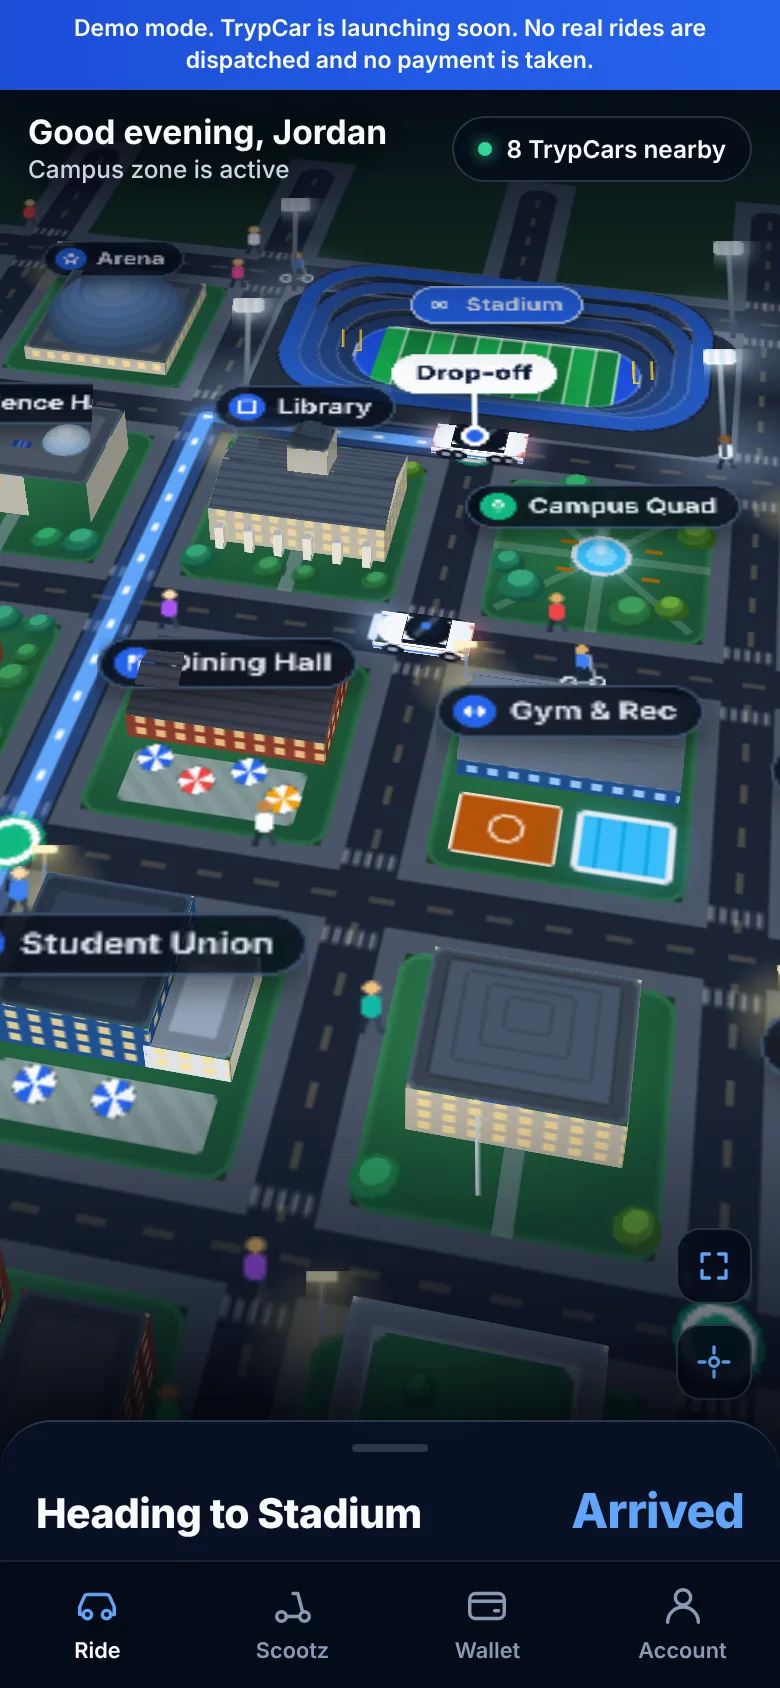
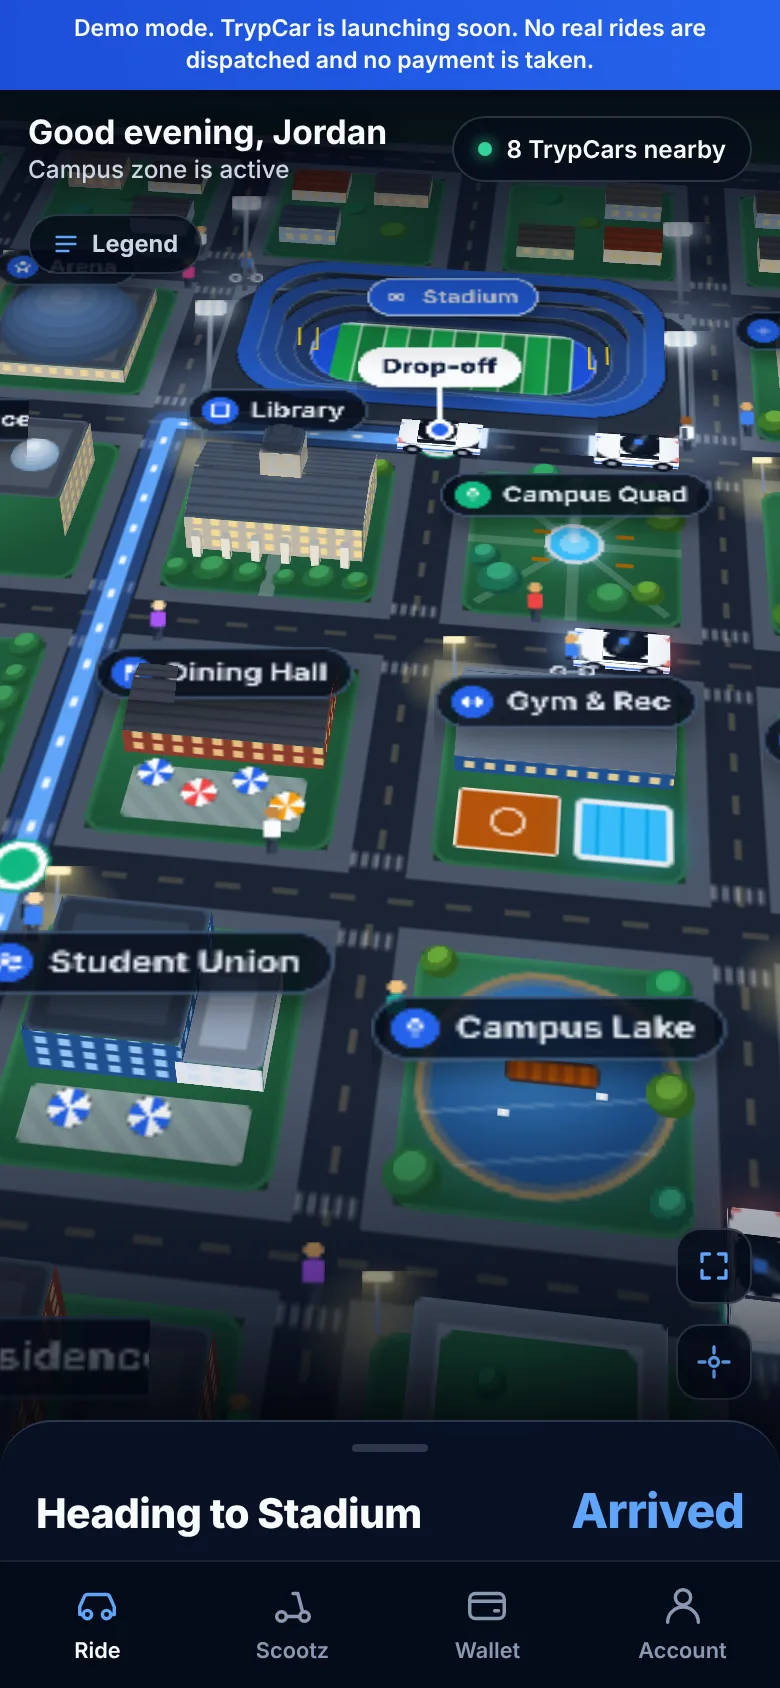
Add files via upload

diff --git a/app.html b/app.html
@@ -124,6 +124,16 @@
     .flag i { position: absolute; left: 0; bottom: 0; width: 1.3px; height: 30px; background: #cbd5e1; }
     .flag b { position: absolute; left: 1.3px; top: 0; width: 11px; height: 7px; background: linear-gradient(#1d4ed8 0 50%, #f8fafc 50%); transform-origin: left center; animation: wave 1.4s ease-in-out infinite alternate; }
     @keyframes wave { to { transform: skewY(6deg) scaleX(0.9); } }
+    .steps { position: absolute; border-radius: 1px; background: repeating-linear-gradient(180deg, #e5e1d6 0 2px, #c9c3b4 2px 3px); transform: translateZ(1px); }
+    .crossx { width: 7px; height: 10px; background: linear-gradient(#fbbf24, #fbbf24) center/1.6px 100% no-repeat, linear-gradient(#fbbf24, #fbbf24) center 30%/100% 1.6px no-repeat; filter: drop-shadow(0 0 3px rgba(251,191,36,0.9)); }
+    .diamond { position: absolute; width: 48px; height: 48px; background: radial-gradient(circle at 100% 100%, #b45309 0 30%, transparent 31%), #2f8f57; border-radius: 0 0 6px 48px; box-shadow: inset 0 0 0 1.5px rgba(255,255,255,0.6); }
+    .lotpave { position: absolute; border-radius: 3px; background: #2b3242; box-shadow: inset 0 0 0 1px rgba(255,255,255,0.12); }
+    .shopsign { display: flex; flex-direction: column; align-items: center; padding: 2px 5px; border-radius: 3px; background: #b91c1c; border: 1px solid #fecaca; box-shadow: 0 0 10px rgba(239,68,68,0.6); }
+    .shopsign b { font-size: 7px; font-weight: 800; color: #fff; letter-spacing: 0.06em; line-height: 1.1; }
+    .shopsign i { font-style: normal; font-size: 6px; font-weight: 700; color: #fde68a; line-height: 1.1; }
+    .shopsign.gas { background: #0f172a; border-color: #ef4444; }
+    .lbl.partner svg { background: #f59e0b; }
+    .lbl.partner { border-color: rgba(251,191,36,0.6); }
     .bld.sel .rf { background: #2563eb !important; }
     .bld.sel .lawn { box-shadow: inset 0 0 0 2px #93c5fd, 0 0 20px rgba(59,130,246,0.6); }
     .bld.sel .top { background: linear-gradient(135deg, #3b82f6, #1d4ed8); box-shadow: 0 0 0 2px #93c5fd, 0 0 28px rgba(59,130,246,0.9); }
@@ -359,7 +369,7 @@
         <div class="ground"><svg viewBox="0 0 460 600" aria-hidden="true">
           <defs><radialGradient id="lampglow"><stop offset="0" stop-color="#fde68a" stop-opacity="0.45"/><stop offset="1" stop-color="#fde68a" stop-opacity="0"/></radialGradient>
           <radialGradient id="stadglow"><stop offset="0" stop-color="#bfdbfe" stop-opacity="0.35"/><stop offset="1" stop-color="#bfdbfe" stop-opacity="0"/></radialGradient></defs>
-          <rect x="-200" y="-200" width="860" height="1000" fill="#173424"/>
+          <rect x="-500" y="-500" width="1460" height="1600" fill="#173424"/>
           <g id="walks"></g><g id="roads"></g><g id="glows"></g>
           <path class="route-glow" id="rglow" d=""/><path class="route-line" id="rline" d=""/><path class="route-flow" id="rflow" d=""/>
           <g id="hubs"></g>
@@ -390,7 +400,12 @@
           <div class="lg"><i><span class="sw" style="background:#8a3b2c"></span></i>Brick halls and dorms</div>
           <div class="lg"><i><span class="sw" style="background:#bdb6a6"></span></i>Academic buildings</div>
           <div class="lg"><i><span class="sw" style="background:#1f4f8f"></span></i>Modern glass buildings</div>
+          <div class="lg"><i><span class="sw" style="background:#a89f8f"></span></i>Historic halls and chapel</div>
           <div class="lg"><i><span class="sw" style="background:#2563eb;box-shadow:0 0 8px #3b82f6"></span></i>Your destination</div>
+          <div class="sep"></div>
+          <h4>Around town</h4>
+          <div class="lg"><i><svg width="16" height="16" viewBox="0 0 24 24"><circle cx="12" cy="12" r="11" fill="#f59e0b"/><path d="M12 6l1.8 3.9 4.2.5-3.1 2.9.8 4.2L12 15.4 8.3 17.5l.8-4.2L6 10.4l4.2-.5z" fill="#fff"/></svg></i>Founding Partner business</div>
+          <div class="lg"><i><span class="sw" style="background:#d6c9a8"></span></i>Homes and neighborhoods</div>
           <div class="sep"></div>
           <div class="lg" style="font-size:0.72rem;color:var(--muted)">Tap any building to ride there. Drag to look around.</div>
         </div>
@@ -544,21 +559,26 @@
   function sv(tag, attrs, parent) { var e = document.createElementNS(NS, tag); for (var k in attrs) e.setAttribute(k, attrs[k]); parent.appendChild(e); return e; }
   function div(cls, css, parent) { var e = document.createElement("div"); if (cls) e.className = cls; if (css) e.style.cssText = css; (parent || city).appendChild(e); return e; }
   var walksG = $("walks"), glowsG = $("glows");
-  function colSegs(x) { return x === 230 ? [[-40, 40], [140, 640]] : [[-40, 640]]; }
+  function colSegs(x) { return x === 230 ? [[-60, 40], [140, 640]] : [[-60, 640]]; }
   cols.forEach(function (x) { colSegs(x).forEach(function (g) {
     sv("line", { x1: x, y1: g[0], x2: x, y2: g[1], "class": "sidewalk" }, walksG);
     sv("line", { x1: x, y1: g[0], x2: x, y2: g[1], "class": "road" }, roadsG); sv("line", { x1: x, y1: g[0], x2: x, y2: g[1], "class": "road-line" }, roadsG); }); });
-  rowsY.forEach(function (y) { sv("line", { x1: -40, y1: y, x2: 500, y2: y, "class": "sidewalk" }, walksG); });
+  rowsY.forEach(function (y) { sv("line", { x1: -70, y1: y, x2: 530, y2: y, "class": "sidewalk" }, walksG); });
+  // Outer town ring roads
+  var RING = [[-70, -60, -70, 640], [530, -60, 530, 640], [-70, -60, 530, -60], [-70, 640, 530, 640]];
+  RING.forEach(function (r) { sv("line", { x1: r[0], y1: r[1], x2: r[2], y2: r[3], "class": "sidewalk" }, walksG); });
   cols.forEach(function (x) { rowsY.forEach(function (y) {
     if (x === 230 && (y === 40 || y === 140)) return;
     [[x - 8, y - 13, x + 8, y - 13], [x - 8, y + 13, x + 8, y + 13], [x - 13, y - 8, x - 13, y + 8], [x + 13, y - 8, x + 13, y + 8]].forEach(function (c) { sv("line", { x1: c[0], y1: c[1], x2: c[2], y2: c[3], "class": "xwalk" }, roadsG); });
   }); });
-  rowsY.forEach(function (y) { sv("line", { x1: -40, y1: y, x2: 500, y2: y, "class": "road" }, roadsG); sv("line", { x1: -40, y1: y, x2: 500, y2: y, "class": "road-line" }, roadsG); });
+  rowsY.forEach(function (y) { sv("line", { x1: -70, y1: y, x2: 530, y2: y, "class": "road" }, roadsG); sv("line", { x1: -70, y1: y, x2: 530, y2: y, "class": "road-line" }, roadsG); });
+  RING.forEach(function (r) { sv("line", { x1: r[0], y1: r[1], x2: r[2], y2: r[3], "class": "road" }, roadsG); sv("line", { x1: r[0], y1: r[1], x2: r[2], y2: r[3], "class": "road-line" }, roadsG); });
 
   var ICON = {
     book: '<path d="M4 5a2 2 0 0 1 2-2h13v16H6a2 2 0 0 0-2 2z"/>', gym: '<path d="M4 9v6M8 7v10M16 7v10M20 9v6M8 12h8"/>', ball: '<ellipse cx="12" cy="12" rx="9" ry="6"/><path d="M8 12h8M10 10v4M14 10v4"/>',
     cup: '<path d="M5 8h11v6a5 5 0 0 1-5 5h-1a5 5 0 0 1-5-5zM16 10h2a2 2 0 0 1 0 4h-2"/>', star: '<path d="M12 3l2.6 5.6 6 .7-4.5 4.1 1.2 6L12 16.5 6.7 19.4l1.2-6L3.4 9.3l6-.7z"/>', bag: '<path d="M5 8h14l-1 12H6zM9 8V6a3 3 0 0 1 6 0v2"/>',
-    cross: '<path d="M12 5v14M5 12h14"/>', flask: '<path d="M9 3h6M10 3v6L5 19h14L14 9V3"/>', tree: '<path d="M12 3l6 9H6zM12 12v8"/>', home: '<path d="M4 11l8-7 8 7v9H4z"/>',
+    cross: '<path d="M12 5v14M5 12h14"/>', flask: '<path d="M9 3h6M10 3v6L5 19h14L14 9V3"/>', tree: '<path d="M12 3l6 9H6zM12 12v8"/>', church: '<path d="M12 2v5M10 4h4M5 22V12l7-5 7 5v10M10 22v-5h4v5"/>', cols: '<path d="M3 9l9-5 9 5M5 10v8M9 10v8M15 10v8M19 10v8M3 20h18"/>',
+    pizza: '<path d="M12 3L3 20h18z"/><circle cx="12" cy="13" r="1.3"/><circle cx="9" cy="17" r="1.1"/><circle cx="15" cy="17" r="1.1"/>', fuel: '<path d="M5 20V5a1 1 0 0 1 1-1h7a1 1 0 0 1 1 1v15M3 20h13M14 9h2l3 3v6a1.5 1.5 0 0 1-3 0v-3"/><path d="M7 7h5v4H7z"/>', shop: '<path d="M4 9l1-5h14l1 5M4 9v11h16V9M4 9h16M9 20v-6h6v6"/>', home: '<path d="M4 11l8-7 8 7v9H4z"/>',
     fork: '<path d="M7 3v8M10 3v8M7 11a3 3 0 0 0 3 0M8.5 11v10M16 3c-2 2-2 6 0 8v10"/>', people: '<circle cx="9" cy="8" r="3"/><circle cx="17" cy="9" r="2.5"/><path d="M3 20a6 6 0 0 1 12 0M15 20a4 4 0 0 1 7-2"/>', park: '<path d="M5 20V4h8a4 4 0 0 1 0 8H5"/>'
   };
   // ---------- Campus building kit ----------
@@ -572,18 +592,18 @@
   };
   function box(x, y, w, d, h, o) {
     var b = div("box" + (o && o.cls ? " " + o.cls : ""), "left:" + x + "px;top:" + y + "px;width:" + w + "px;height:" + d + "px;--h:" + h + "px;--wall:" + (o && o.wall || "#0f2350") + ";--win:" + (o && o.win || "rgba(147,197,253,0.55)") + ";--roof:" + (o && o.roof || "#1a3466"), o && o.parent);
-    ["n ns", "s ns", "w ew", "e ew"].forEach(function (f) { div("f " + f, "", b); });
+    ["s ns", "w ew", "e ew"].forEach(function (f) { div("f " + f, "", b); });
     div("f top", "transform:translateZ(" + h + "px)", b);
     return b;
   }
   function bldg(el, x, y, w, d, h, mat) { var m = M[mat]; return box(x, y, w, d, h, { parent: el, cls: "wb", wall: m.wall, win: m.win, roof: m.roof }); }
   function plane(parent, css, bg, cls) { var e = document.createElement("div"); e.className = "f " + (cls || ""); e.style.cssText = "position:absolute;transform-origin:0 0;backface-visibility:visible;" + css + ";background:" + bg; parent.appendChild(e); return e; }
   var SHINGLE = "repeating-linear-gradient(0deg, rgba(0,0,0,0.22) 0 1px, transparent 1px 4px), ";
-  function gable(b, w, d, h, rh, color, wall) {
+  function gable(b, w, d, h, rh, color, wall, noEnds) {
     var th = Math.atan2(rh, d / 2) * 180 / Math.PI, L = Math.hypot(d / 2, rh);
     plane(b, "left:0;top:0;width:" + w + "px;height:" + L + "px;transform:translateZ(" + h + "px) rotateX(" + th + "deg)", SHINGLE + color, "rf");
     plane(b, "left:0;top:" + d + "px;width:" + w + "px;height:" + L + "px;transform:translateZ(" + h + "px) rotateX(" + (180 - th) + "deg)", SHINGLE + color, "rf");
-    [0, w].forEach(function (x) { plane(b, "left:" + x + "px;top:0;width:" + rh + "px;height:" + d + "px;transform:translateZ(" + h + "px) rotateY(-90deg);clip-path:polygon(0 0,100% 50%,0 100%)", wall); });
+    if (!noEnds) [0, w].forEach(function (x) { plane(b, "left:" + x + "px;top:0;width:" + rh + "px;height:" + d + "px;transform:translateZ(" + h + "px) rotateY(-90deg);clip-path:polygon(0 0,100% 50%,0 100%)", wall); });
   }
   function barrel(b, w, d, h, rh, color, N) {
     N = N || 8; var pts = [];
@@ -600,12 +620,11 @@
     for (var i = 0; i < 7; i++) { var a2 = (i / 7) * Math.PI / 2, r = R0 * Math.cos(a2), z = z0 + rh * Math.sin(a2); div("dome", "left:" + (cx - r) + "px;top:" + (cy - r) + "px;width:" + 2 * r + "px;height:" + 2 * r + "px;transform:translateZ(" + z + "px);background:hsl(" + hue + ",35%," + (light + i * 5) + "%)", parent); }
   }
   var LEAF = [["#1d7a4a", "#2fa865"], ["#256b3d", "#3c9a58"], ["#1b6e55", "#34a37a"], ["#3f7a2a", "#69a83a"]];
-  function tree(parent, x, y, s, k3) {
-    var c = LEAF[k3 % LEAF.length], t = div("tree", "left:" + (x - s / 2) + "px;top:" + (y - s / 2) + "px;width:" + s + "px;height:" + s + "px", parent);
+  function tree(parent, x, y, s, k3, lite) {
+    var c = LEAF[Math.abs(k3) % LEAF.length], t = div("tree", "left:" + (x - s / 2) + "px;top:" + (y - s / 2) + "px;width:" + s + "px;height:" + s + "px", parent);
     var lf = "position:absolute;inset:0;border-radius:50%;box-shadow:inset -2px -2px 0 rgba(0,0,0,0.25);";
-    div("", lf + "background:#4a3323;inset:35%;transform:translateZ(3px)", t);
     div("", lf + "background:" + c[0] + ";transform:translateZ(" + (s * 0.6) + "px)", t);
-    div("", lf + "background:" + c[1] + ";transform:translateZ(" + (s * 0.95) + "px) scale(0.62)", t);
+    if (!lite) div("", lf + "background:" + c[1] + ";transform:translateZ(" + (s * 0.95) + "px) scale(0.62)", t);
     return t;
   }
   function autoTrees(el, foot, seed, skipDoor) {
@@ -613,7 +632,7 @@
     P.forEach(function (v) { pts.push([v, 6], [v, 66], [6, v], [66, v]); });
     var n = 0;
     pts.forEach(function (p, i) {
-      if ((i + seed) % 3 === 0) return;
+      if ((i + seed) % 2 === 0) return;
       if (skipDoor && Math.abs(p[0] - 36) < 8 && p[1] > 50) return;
       for (var f = 0; f < foot.length; f++) { var q = foot[f]; if (p[0] > q[0] - 6 && p[0] < q[0] + q[2] + 6 && p[1] > q[1] - 6 && p[1] < q[1] + q[3] + 6) return; }
       tree(el, p[0], p[1], 9 + ((i * 7 + seed) % 5), i + seed); n++;
@@ -639,15 +658,28 @@
     { c: 1, r: 2, n: "Dining Hall", kind: "dining", i: "fork", lbl: 1 },
     { c: 2, r: 2, n: "Gym & Rec", kind: "gym", i: "gym", lbl: 1 },
     { c: 3, r: 2, n: "Coffee House", kind: "coffee", i: "cup", lbl: 1 },
-    { c: 0, r: 3, n: "Lecture Hall", kind: "lecture", i: "book", lbl: 0 },
+    { c: 0, r: 3, n: "Founders Hall", kind: "founders", i: "cols", lbl: 1 },
     { c: 1, r: 3, n: "Student Union", kind: "union", i: "people", lbl: 1 },
-    { c: 2, r: 3, n: "Admin", kind: "admin", i: "home", lbl: 0 },
+    { c: 2, r: 3, n: "Campus Lake", kind: "lake", i: "tree", lbl: 1 },
     { c: 3, r: 3, n: "Residence Hall", kind: "resA", i: "home", lbl: 1 },
-    { c: 0, r: 4, n: "Campus Lake", kind: "lake", i: "tree", lbl: 1 },
+    { c: 0, r: 4, n: "Chapel", kind: "chapel", i: "church", lbl: 1 },
     { c: 1, r: 4, n: "Residences", kind: "resB", i: "home", lbl: 1 },
     { c: 2, r: 4, n: "Apartments", kind: "apts", i: "home", lbl: 0 },
-    { c: 3, r: 4, n: "Parking", kind: "parking", i: "park", lbl: 0 }
+    { c: 3, r: 4, n: "Parking", kind: "parking", i: "park", lbl: 0 },
+    // Surrounding town
+    { c: -1, r: -1, kind: "townpark" }, { c: 0, r: -1, kind: "houses" }, { c: 1, r: -1, kind: "houses" }, { c: 2, r: -1, kind: "houses" }, { c: 3, r: -1, kind: "houses" }, { c: 4, r: -1, kind: "townpark" },
+    { c: -1, r: 0, kind: "houses" }, { c: -1, r: 1, kind: "houses" }, { c: -1, r: 2, kind: "ballfield", n: "Ball Field", i: "ball", lbl: 0 }, { c: -1, r: 3, kind: "houses" }, { c: -1, r: 4, kind: "houses" },
+    { c: 4, r: 0, kind: "houses" }, { c: 4, r: 1, kind: "houses" }, { c: 4, r: 2, kind: "townapts" }, { c: 4, r: 3, kind: "houses" }, { c: 4, r: 4, kind: "houses" },
+    { c: -1, r: 5, kind: "houses" }, { c: 0, r: 5, kind: "houses" }, { c: 1, r: 5, n: "Pizza Place", kind: "pizza", i: "pizza", lbl: 1, partner: 1 }, { c: 2, r: 5, n: "Gas & Go", kind: "gas", i: "fuel", lbl: 1, partner: 1 }, { c: 3, r: 5, n: "Main St Shops", kind: "shops", i: "shop", lbl: 1 }, { c: 4, r: 5, kind: "houses" }
   ];
+  function bxOf(c) { return c < 0 ? -56 : c > 3 ? 444 : cols[c] + 14; }
+  function byOf(r) { return r < 0 ? -46 : r > 4 ? 554 : rowsY[r] + 14; }
+  var SIDING = ["#e7e5e4", "#d6c9a8", "#a8c0d6", "#b5c9a8", "#f1e4c8", "#c9b4a3"], ROOFS = ["#3f3f46", "#57534e", "#7c2d12", "#334155", "#44403c"];
+  function house(el, x, y, w, d, seed) {
+    var sd = SIDING[seed % SIDING.length], rf = ROOFS[(seed * 3) % ROOFS.length], h = 9 + (seed % 3) * 2;
+    var hb = box(x, y, w, d, h, { parent: el, cls: "wb", wall: sd, win: "rgba(253,224,150,0.75)", roof: rf }); gable(hb, w, d, h, 6, rf, sd, true);
+    return hb;
+  }
   function label(x, y, z, text, icon, extra) {
     var l = div("lbl" + (extra ? " " + extra : ""), "left:" + x + "px;top:" + y + "px;--z:" + z + "px", world);
     l.innerHTML = '<svg viewBox="0 0 24 24">' + ICON[icon] + "</svg>" + text;
@@ -655,7 +687,7 @@
   }
   var ducks = [];
   blocks.forEach(function (k) {
-    var bx = cols[k.c] + 14, by = rowsY[k.r] + 14, W = 72, top = 0, el, b2;
+    var bx = bxOf(k.c), by = byOf(k.r), W = 72, top = 0, el, b2;
     if (k.kind === "stadium") {
       // Spans two blocks: a bowl of rising seating tiers around a striped football field
       var SW = 172, SH = 72;
@@ -730,9 +762,59 @@
       } else if (K === "resA") {
         f = [[6, 4, 28, 64], [34, 36, 32, 30]]; lot(el, f); b2 = bldg(el, 6, 4, 28, 64, 52, "brick"); b2.style.setProperty("--win", "rgba(253,224,150,0.85)");
         var b3 = bldg(el, 34, 36, 32, 30, 36, "brick"); gable(b3, 32, 30, 36, 8, "#3a404d", "#8a3b2c"); autoTrees(el, f, 11); top = 56;
+      } else if (K === "founders") {
+        // Neoclassical hall: columned portico with a triangular pediment and wide front steps
+        f = [[8, 6, 56, 34]]; lot(el, f); b2 = bldg(el, 8, 6, 56, 34, 26, "stone"); hipped(b2, 56, 34, 26, 3, "#4b5563");
+        dome(b2, 28, 17, 7, 26, 7, 200, 55);
+        div("steps", "left:14px;top:52px;width:44px;height:8px", el);
+        [0, 1, 2, 3, 4, 5].forEach(function (i) { box(15 + i * 8, 44, 2.6, 2.6, 20, { parent: el, wall: "#f1ede4", win: "#f1ede4", roof: "#f1ede4" }); });
+        var port = box(12, 40, 48, 10, 3, { parent: el, wall: "#e7e2d6", win: "#e7e2d6", roof: "#e7e2d6" }); port.style.transform = "translateZ(20px)";
+        gable(port, 48, 10, 3, 5, "#d6d0c2", "#efeadf");
+        autoTrees(el, [[8, 6, 56, 56]], 9); top = 40;
+      } else if (K === "chapel") {
+        // Old stone chapel: steep roof, bell tower with spire and cross, glowing stained glass
+        f = [[18, 22, 46, 26], [4, 26, 16, 18]]; lot(el, f); div("walkway", "left:0;top:33px;width:6px;height:5px", el);
+        b2 = box(18, 22, 46, 26, 18, { parent: el, cls: "wb", wall: "#a89f8f", win: "rgba(251,146,60,0.9)", roof: "#3f3f46" }); gable(b2, 46, 26, 18, 14, "#3f3f46", "#a89f8f");
+        var bell = box(4, 26, 16, 18, 34, { parent: el, cls: "wb", wall: "#b3aa99", win: "rgba(251,191,36,0.85)", roof: "#3f3f46" }); hipped(bell, 16, 18, 34, 6, "#334155");
+        div("bb crossx", "left:" + (bx + 12) + "px;top:" + (by + 35) + "px;--z:56px", world);
+        autoTrees(el, f, 13); top = 60;
+      } else if (K === "houses") {
+        lot(el, []); var sd2 = k.c * 7 + k.r * 3 + 20;
+        [[6, 8], [42, 8], [6, 42], [42, 42]].forEach(function (p, i) { if ((sd2 + i) % 4 === 3) { tree(el, p[0] + 12, p[1] + 10, 12, i, 1); return; } house(el, p[0], p[1], 24, 18, sd2 + i); });
+        tree(el, 36, 36, 10, sd2, 1); top = 18;
+      } else if (K === "townpark") {
+        lot(el, []); div("path-x", "left:0;right:0;top:34px;height:3px;transform:rotate(30deg)", el);
+        [[10, 10], [30, 8], [56, 14], [12, 52], [40, 58], [60, 46], [26, 32], [50, 30]].forEach(function (p, i) { tree(el, p[0], p[1], 11 + (i % 3) * 2, i + k.c, 1); }); top = 16;
+      } else if (K === "ballfield") {
+        lot(el, []); div("diamond", "left:12px;top:12px", el); tree(el, 64, 8, 10, 1); tree(el, 64, 64, 12, 2); top = 8;
+      } else if (K === "townapts") {
+        f = [[8, 10, 56, 48]]; lot(el, f); b2 = box(8, 10, 56, 48, 30, { parent: el, cls: "wb", wall: "#d6c9a8", win: "rgba(253,224,150,0.8)", roof: "#57534e" }); autoTrees(el, f, 4); top = 34;
+      } else if (K === "pizza") {
+        lot(el, []); div("lotpave", "left:4px;top:34px;width:64px;height:34px", el);
+        b2 = box(10, 8, 52, 24, 13, { parent: el, cls: "wb", wall: "#9a3412", win: "rgba(253,224,150,0.85)", roof: "#44403c" });
+        plane(b2, "left:4px;top:24px;width:44px;height:7px;transform:translateZ(10px) rotateX(-35deg)", "repeating-linear-gradient(90deg, #dc2626 0 4px, #fef3c7 4px 8px)");
+        div("bb shopsign", "left:" + (bx + 36) + "px;top:" + (by + 6) + "px;--z:13px", world).innerHTML = "<b>PIZZA</b>";
+        [[14, 44], [30, 44], [46, 44]].forEach(function (p, i) { box(p[0], p[1], 10, 6, 4, { parent: el, wall: ["#ef4444", "#f8fafc", "#2563eb"][i], win: "#0f172a", roof: ["#ef4444", "#e2e8f0", "#1d4ed8"][i] }); });
+        top = 26;
+      } else if (K === "gas") {
+        lot(el, []); div("lotpave", "left:2px;top:2px;width:68px;height:68px", el);
+        box(44, 8, 22, 18, 10, { parent: el, cls: "wb", wall: "#e5e7eb", win: "rgba(56,189,248,0.7)", roof: "#cbd5e1" });
+        [[10, 34], [34, 34], [10, 58], [34, 58]].forEach(function (p) { box(p[0], p[1], 2, 2, 14, { parent: el, wall: "#e2e8f0", win: "#e2e8f0", roof: "#e2e8f0" }); });
+        [[12, 44], [30, 44]].forEach(function (p) { box(p[0], p[1], 6, 4, 5, { parent: el, wall: "#dc2626", win: "#fecaca", roof: "#f8fafc" }); });
+        var can = box(4, 30, 40, 32, 2, { parent: el, wall: "#dc2626", win: "#dc2626", roof: "#f8fafc" }); can.style.transform = "translateZ(14px)";
+        plane(can, "left:0;top:0;width:40px;height:32px;transform:translateZ(2.2px);box-shadow:0 0 14px rgba(255,255,255,0.7)", "linear-gradient(#f8fafc,#e2e8f0)");
+        div("bb shopsign gas", "left:" + (bx + 62) + "px;top:" + (by + 66) + "px;--z:0px", world).innerHTML = "<b>GAS</b><i>3.19</i>";
+        top = 22;
+      } else if (K === "shops") {
+        lot(el, []); div("lotpave", "left:4px;top:40px;width:64px;height:28px", el);
+        [["#fde68a", "#b45309", 4], ["#bfdbfe", "#1d4ed8", 26], ["#fbcfe8", "#be185d", 48]].forEach(function (c2, i) {
+          var sb = box(c2[2], 10, 20, 24, 12 + i * 2, { parent: el, cls: "wb", wall: c2[0], win: "rgba(253,224,150,0.85)", roof: "#57534e" });
+          plane(sb, "left:2px;top:24px;width:16px;height:6px;transform:translateZ(9px) rotateX(-35deg)", "repeating-linear-gradient(90deg, " + c2[1] + " 0 3px, #f8fafc 3px 6px)");
+        });
+        top = 22;
       } else if (K === "lake") {
-        lot(el, []); div("lake", "left:6px;top:8px;width:60px;height:54px", el); div("bridge", "left:28px;top:30px", el);
-        [[8, 6], [64, 10], [6, 64], [62, 64], [36, 4], [66, 40]].forEach(function (p, i) { tree(el, p[0], p[1], 10 + (i % 3) * 2, i + 3); });
+        lot(el, []); div("lake", "left:3px;top:4px;width:66px;height:62px", el); div("bridge", "left:26px;top:31px;width:22px", el);
+        [[6, 6], [66, 8], [5, 66], [66, 66], [66, 38]].forEach(function (p, i) { tree(el, p[0], p[1], 10 + (i % 3) * 2, i + 3); });
         [0, 1, 2].forEach(function (i) { ducks.push({ el: div("duck", "", el), a: i * 2.1, r: 12 + i * 5 }); });
         top = 12;
       } else if (K === "resB") {
@@ -750,14 +832,14 @@
       }
     }
     k.el = el; k.top = top + 6; k.cx = k.cxOverride || bx + 36; k.cy = by + 36;
-    if (k.lbl) k.lab = label(k.cx, k.cy, k.top, k.n, k.i, k.hub ? "hub" : "");
+    if (k.lbl) k.lab = label(k.cx, k.cy, k.top, k.partner ? k.n + " · Partner" : k.n, k.i, k.hub ? "hub" : (k.partner ? "partner" : ""));
   });
   var hubs = [[230, 140], [130, 340], [330, 440]];
   hubs.forEach(function (h) { sv("circle", { cx: h[0], cy: h[1], r: 9, fill: "none", stroke: "#10b981", "stroke-width": 2, "class": "pulse" }, $("hubs")); sv("circle", { cx: h[0], cy: h[1], r: 7, fill: "#10b981", stroke: "#f8fafc", "stroke-width": 2.5 }, $("hubs")); });
 
   var ME = { x: 130, y: 440 };
   $("mepin").setAttribute("transform", "translate(" + ME.x + " " + ME.y + ")");
-  function stop(c, r) { return { x: cols[c + 1], y: rowsY[r + 1] }; }
+  function stop(c, r) { return r > 4 ? { x: cols[c + 1], y: 640 } : { x: cols[c + 1], y: rowsY[r + 1] }; }
   var places = [
     { n: "Library", s: "Study floors open late", b: [1, 1], t: 4 },
     { n: "Gym & Rec", s: "Weights, pool, and courts", b: [2, 2], t: 5 },
@@ -770,7 +852,10 @@
     { n: "Bookstore", s: "Books, gear, and supplies", b: [0, 2], t: 4 },
     { n: "Science Hall", s: "Labs and lecture rooms", b: [0, 1], t: 5 },
     { n: "Campus Quad Hub", s: "TrypCar Hub, well lit", b: [2, 1], t: 6 },
-    { n: "Campus Lake", s: "Walking trail and footbridge", b: [0, 4], t: 2 }
+    { n: "Campus Lake", s: "Walking trail and footbridge", b: [2, 3], t: 4 },
+    { n: "Chapel", s: "Historic stone chapel", b: [0, 4], t: 2 },
+    { n: "Pizza Place", s: "Founding Partner · student deals", b: [1, 5], t: 5 },
+    { n: "Gas & Go", s: "Founding Partner · snacks and fuel", b: [2, 5], t: 6 }
   ];
   places.forEach(function (p, i) {
     var st = stop(p.b[0], p.b[1]); p.x = st.x; p.y = st.y;
@@ -828,7 +913,8 @@
   var loops = [
     [{ x: 30, y: 40 }, { x: 430, y: 40 }, { x: 430, y: 240 }, { x: 30, y: 240 }],
     [{ x: 230, y: 140 }, { x: 230, y: 540 }, { x: 430, y: 540 }, { x: 430, y: 140 }],
-    [{ x: 30, y: 340 }, { x: 330, y: 340 }, { x: 330, y: 540 }, { x: 30, y: 540 }]
+    [{ x: 30, y: 340 }, { x: 330, y: 340 }, { x: 330, y: 540 }, { x: 30, y: 540 }],
+    [{ x: -70, y: -60 }, { x: 530, y: -60 }, { x: 530, y: 640 }, { x: -70, y: 640 }]
   ];
   var amb = loops.map(function (L, i) { return { L: L, el: makeCar(), off: i * 0.33, len: 0 }; });
   amb.forEach(function (a2) { var t = 0; for (var i = 0; i < a2.L.length; i++) { var p = a2.L[i], q = a2.L[(i + 1) % a2.L.length]; t += Math.abs(q.x - p.x) + Math.abs(q.y - p.y); } a2.len = t; });

diff --git a/app-sw.js b/app-sw.js
@@ -1,5 +1,5 @@
 // TrypCar app service worker: caches the app so it opens instantly and works offline.
-var CACHE = "trypcar-app-v9";
+var CACHE = "trypcar-app-v10";
 var FILES = ["app.html", "app.webmanifest", "app-icon-192.png", "app-icon-512.png", "trypcar-logo.png", "trypcar-car.webp"];
 self.addEventListener("install", function (e) {
   e.waitUntil(caches.open(CACHE).then(function (c) { return c.addAll(FILES); }));
